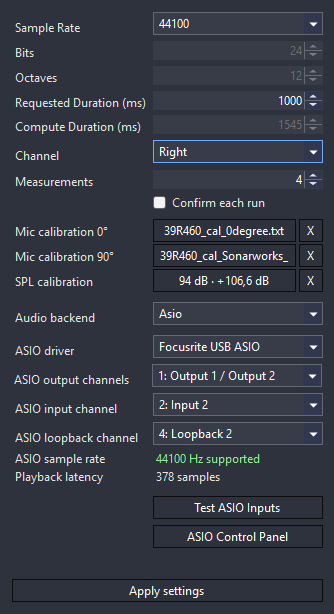
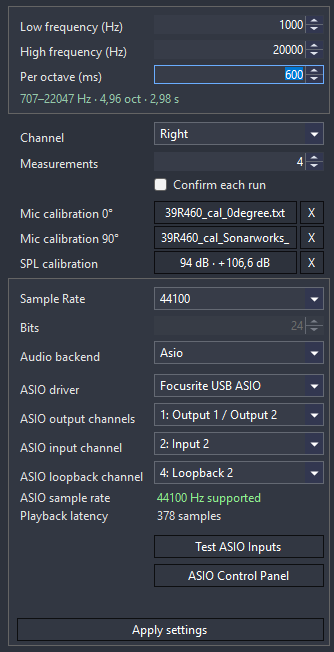
README: catch up with the band sweep, the EQ Wizard's sources, and the fold
Three shipped features were undocumented and two statements had gone false: the
file section still listed a sweep octave count, and the EQ Wizard was still
described as something that loads an impulse response.

Adds a sweep band/pace section (including why the band gate removed the spikes
below a band-limited sweep's low edge), an EQ Wizard source section built around
the moving-microphone RTA case, the curve-metadata header and its purpose, and
the foldable Virtual DSP block.

The EQ Wizard's source button said "Load IR…" while its menu offered overlay and
text curves; it now says "Source…", and the field name follows.

Changed region(s): [[0.0, 0.0, 0.988, 0.9902], [0.0299, 0.0309, 0.4491, 0.4642]]

diff --git a/source/Tools/Eq/EqWizardPanel.Designer.cs b/source/Tools/Eq/EqWizardPanel.Designer.cs
@@ -1,4 +1,4 @@
-namespace Resonalyze
+namespace Resonalyze
 {
     partial class EqWizardPanel
     {
@@ -36,7 +36,7 @@ namespace Resonalyze
             plotWizard = new OxyPlot.WindowsForms.PlotView();
             panelPEQ = new Panel();
             labelBands = new Label();
-            buttonLoadIr = new Button();
+            buttonSource = new Button();
             darkComboBoxBands = new DarkComboBox();
             NumericTargetOffset = new DarkNumericUpDown();
             labelTargetOffset = new Label();
@@ -109,16 +109,16 @@ namespace Resonalyze
             labelBands.TabIndex = 4;
             labelBands.Text = "EQ Filters";
             // 
-            // buttonLoadIr
+            // buttonSource
             // 
-            buttonLoadIr.FlatStyle = FlatStyle.Popup;
-            buttonLoadIr.ForeColor = Color.White;
-            buttonLoadIr.Location = new Point(6, 12);
-            buttonLoadIr.Name = "buttonLoadIr";
-            buttonLoadIr.Size = new Size(182, 24);
-            buttonLoadIr.TabIndex = 5;
-            buttonLoadIr.Text = "Load IR…";
-            buttonLoadIr.UseVisualStyleBackColor = true;
+            buttonSource.FlatStyle = FlatStyle.Popup;
+            buttonSource.ForeColor = Color.White;
+            buttonSource.Location = new Point(6, 12);
+            buttonSource.Name = "buttonSource";
+            buttonSource.Size = new Size(182, 24);
+            buttonSource.TabIndex = 5;
+            buttonSource.Text = "Source…";
+            buttonSource.UseVisualStyleBackColor = true;
             // 
             // darkComboBoxBands
             // 
@@ -517,7 +517,7 @@ namespace Resonalyze
             Controls.Add(labelTargetOffset);
             Controls.Add(NumericTargetOffset);
             Controls.Add(darkComboBoxBands);
-            Controls.Add(buttonLoadIr);
+            Controls.Add(buttonSource);
             Controls.Add(labelBands);
             Controls.Add(panelPEQ);
             Controls.Add(plotWizard);
@@ -542,7 +542,7 @@ namespace Resonalyze
         private OxyPlot.WindowsForms.PlotView plotWizard;
         private Panel panelPEQ;
         private Label labelBands;
-        private Button buttonLoadIr;
+        private Button buttonSource;
         private DarkComboBox darkComboBoxBands;
         private DarkNumericUpDown NumericTargetOffset;
         private Label labelTargetOffset;

diff --git a/source/Tools/Eq/EqWizardPanel.cs b/source/Tools/Eq/EqWizardPanel.cs
@@ -1,4 +1,4 @@
-using System.ComponentModel;
+using System.ComponentModel;
 using OxyPlot;
 using OxyPlot.Annotations;
 using OxyPlot.Axes;
@@ -92,7 +92,7 @@ public partial class EqWizardPanel : UserControl
         // Showing a dropdown synchronously inside the mouse message is swallowed by the
         // focus change, and showing it on mouse-down lets the click's own mouse-up land
         // outside the just-opened menu and close it again.
-        buttonLoadIr.Click += (_, _) => buttonLoadIr.BeginInvoke(ShowSourceMenu);
+        buttonSource.Click += (_, _) => buttonSource.BeginInvoke(ShowSourceMenu);
         comboBoxCalibration.SelectedIndexChanged += (_, _) => OnCalibrationChanged();
         NumericTargetOffset.ValueChanged += (_, _) => OnTargetOffsetChanged();
         NumericGain.ValueChanged += (_, _) => DrawSelectedCurves();
@@ -232,7 +232,7 @@ public partial class EqWizardPanel : UserControl
 
     private void InitializeToolTips()
     {
-        SetTip(buttonLoadIr,
+        SetTip(buttonSource,
             "Choose the curve to equalize: an impulse response (file or history), " +
             "a captured overlay slot, or a measured curve from a text file.");
         SetTip(buttonOverlaySettings,

diff --git a/source/Tools/Eq/EqWizardPanel.Source.cs b/source/Tools/Eq/EqWizardPanel.Source.cs
@@ -1,4 +1,4 @@
-using OxyPlot;
+using OxyPlot;
 using Resonalyze.Dsp;
 using Resonalyze.History;
 using Resonalyze.Options;
@@ -98,7 +98,7 @@ public partial class EqWizardPanel
         sourceMenu?.Dispose();
         sourceMenu = BuildSourceMenu();
         DropDownFocusGuard.Attach(sourceMenu);
-        sourceMenu.Show(buttonLoadIr, new Point(0, buttonLoadIr.Height));
+        sourceMenu.Show(buttonSource, new Point(0, buttonSource.Height));
     }
 
     private ContextMenuStrip BuildSourceMenu()
@@ -333,9 +333,9 @@ public partial class EqWizardPanel
             suppressRedraw = false;
         }
 
-        buttonLoadIr.Text = source.DisplayName;
+        buttonSource.Text = source.DisplayName;
         toolTip.SetToolTip(
-            buttonLoadIr,
+            buttonSource,
             $"{source.Description}\r\nClick to load another source.");
 
         RaiseSettingsChanged();

diff --git a/README.md b/README.md
@@ -86,10 +86,11 @@ result with fewer blind tuning passes.
   <tr>
     <td width="50%">
       <img src="assets/images/eq_wizard.png" alt="EQ Wizard parametric EQ tuning">
-      <p><strong>EQ Wizard</strong> loads an impulse response and designs an
-      up-to-32-band PEQ toward its own target curve, with microphone calibration,
-      Auto Tune, a vertical fader bank, import/export, and printable tuning
-      sheets.</p>
+      <p><strong>EQ Wizard</strong> equalizes any measured response — an impulse
+      response, a captured overlay curve, or a moving-microphone RTA in dB SPL —
+      designing an up-to-32-band PEQ toward its own target curve, with microphone
+      calibration, Auto Tune, a vertical fader bank, import/export, and printable
+      tuning sheets.</p>
     </td>
     <td width="50%">
       <img src="assets/images/time-alignment.png" alt="Time Alignment delay measurement">
@@ -233,6 +234,11 @@ file is provided with every release.
 ## Highlights
 
 - Exponential sine sweep measurement with impulse-response JSON save/load
+- **Band-defined sweep**: set the low and high frequency the sweep must cover
+  (20 Hz – 20 kHz) and a per-octave pace instead of an octave count pinned to
+  Nyquist. The panel reports the range it can actually deliver, and the transfer
+  estimate is gated to the excited band, so a band-limited sweep no longer shows
+  noise spikes just below its low edge
 - Mandatory loopback-referenced sweep processing: every measurement captures a
   loopback reference, and all analysis is derived from the resulting transfer
   function (harmonics and THD+N stay on the sweep deconvolution)
@@ -290,10 +296,13 @@ file is provided with every release.
   or live plot curves, targets, import/export, and saved per-mode state
 - Live overlay preview: captured, calculated, and target overlay dialogs redraw
   the candidate curve on the plot as you edit, and revert on Cancel
-- EQ Wizard: load an impulse response and design an up-to-32-band parametric EQ
-  toward its own target curve (with selectable microphone calibration), using a
-  vertical fader bank, Auto Tune, a live results read-out, cross-tool PEQ
-  import/export, and a printable tuning-sheet PDF
+- EQ Wizard: equalize any measured frequency response — an impulse response from
+  a file or History, a captured overlay slot, or a curve imported from text —
+  toward its own target curve, designing an up-to-32-band parametric EQ (with
+  selectable microphone calibration), using a vertical fader bank, Auto Tune, a
+  live results read-out, cross-tool PEQ import/export, and a printable
+  tuning-sheet PDF. The car case it was built for is a **moving-microphone RTA in
+  dB SPL**: no coherence, no impulse response, an absolute datum
 - Signal Generator: play pink (periodic and continuous), brown/red, white noise,
   or a sine tone through the configured playback device for level setting and
   channel checks
@@ -566,7 +575,8 @@ real-time analysis without capturing an IR, use the additional
    directly or through a microphone and a suitable interface.
 2. Start Resonalyze and open the measurement settings.
 3. Select the audio backend, sample rate, devices or backend-specific input and
-   loopback channels, sweep duration, playback channel, and analysis
+   loopback channels, the [sweep band and pace](#sweep-band-and-duration),
+   playback channel, and analysis
    parameters. A **loopback reference channel is required** — all analysis is
    derived from the transfer IR it produces, so the settings panel flags an
    unset loopback and the measurement will not start without one. To average
@@ -751,6 +761,38 @@ channel is selected for the active backend; the settings panel flags an unset
 loopback in place. Records loaded from older files that were captured without a
 transfer IR still open, but their transfer-IR views show a "requires loopback
 transfer IR" note instead of a misleading curve.
+
+### Sweep band and duration
+
+The exponential sweep is described by the band it must cover: a **Low frequency
+(Hz)** and a **High frequency (Hz)** anywhere between 20 Hz and 20 kHz, plus a
+**Per octave (ms)** pace that sets the duration. Measuring a tweeter through a
+2 kHz crossover no longer means sweeping from 20 Hz and pinning the top to
+Nyquist — sweep the band the driver actually plays, and spend the whole
+excitation there.
+
+Phase alignment is preserved by rounding the band outward to whole start and end
+cycles, so the achieved range always encloses the one you asked for, and the
+fade-in and fade-out live in the guard bands outside it rather than eating into
+the band under test. The **Actual range** line reports what the current settings
+really deliver: where a short sweep cannot honour the request — one cycle at
+20 Hz alone takes 50 ms — it says so instead of quietly shortening the sweep at
+run time. The duration is capped by one length limit that the preview, the
+generator and the stored settings all resolve through, so the panel cannot
+promise a sweep the measurement then fails to play.
+
+The transfer estimate is gated to the excited band: full weight between the
+points where the sweep envelope is actually open, raised-cosine ramps across the
+fades, zero outside. Outside the swept band the transfer function is microphone
+noise divided by the reference's leakage skirt, which used to surface as +15 dB
+spikes just below the start of a band-limited sweep; those bins are now excluded
+rather than half-passed.
+
+Measurement options apply as you edit them — the band, the pace, the playback
+channel, the averaging — and touch the audio session only when its identity
+actually changed. The audio backend, the format the device is opened with and
+its device panel are the exception: they sit in their own bordered panel and
+commit together with **Apply settings**.
 
 ### Wave
 
@@ -942,7 +984,10 @@ transfer function. Coherence does not apply to it, so it is never dimmed by the
 gain, so switching windows does not shift it. In relative dB it is a single-channel
 level whose vertical position floats with input gain; with the **Scale** set to
 **dB SPL** it becomes calibrated absolute sound pressure (and the only curve —
-see [Sound Pressure Level](#sound-pressure-level-db-spl)).
+see [Sound Pressure Level](#sound-pressure-level-db-spl)). Captured into an
+overlay slot, an RTA trace — typically a microphone moved slowly around the
+listening area — can be equalized directly in the
+[EQ Wizard](#choosing-what-to-equalize).
 
 **Peak Hold** overlays a second curve that retains the maximum level seen on the
 trace until it is reset. **Coherence** (on by default) toggles the γ² curve
@@ -1242,7 +1287,9 @@ Files are saved as indented, human-readable JSON. Each file contains:
 - format and schema version
 - save time in UTC
 - sample rate and bit depth
-- sweep octave count and duration
+- the requested sweep band and the band the sweep achieved, plus its duration
+  and sample count (files written before the band settings carry an octave count
+  instead and are migrated on load)
 - playback channel
 - measurement mode (`SweepDeconvolution` or `LoopbackTransfer`)
 - sweep-deconvolution impulse-response samples and peak index
@@ -1350,6 +1397,14 @@ skipped. **Export to text** writes the slot's current curve in the same format.
 For a Target slot, **Export deviation** writes the deviation or EQ-correction
 curve, which is handy for transferring corrections into an equalizer or another
 tool.
+
+Exported files open with a commented `# resonalyze-curve` metadata header that
+records what the curve is — the analysis it came from, its role (a measured
+response, a deviation, a target), and the sample rate where one applies. Foreign
+files without the header still import exactly as before; the header only lets
+Resonalyze recognize its own curves on the way back in, so that, for example, the
+[EQ Wizard](#eq-wizard) can tell a measured response from an EQ-correction curve
+that must never be equalized as if it were one.
 
 Captured overlay settings include:
 
@@ -1460,10 +1515,36 @@ The **EQ Wizard** (under the **Tools** tab) designs a parametric equalizer — u
 to 32 peaking (PK) bands plus a preamp — that moves a measured response toward a
 target. It builds directly on Target overlays: you can open it from **Tools > EQ
 Wizard** and pick a target, or jump straight in with the **To EQ Wizard** button
-in a Target overlay's settings. Because the wizard needs a real curve to tune
-against, its target must use a captured source (not the live current measurement).
+in a Target overlay's settings.
 
 ![EQ Wizard mode](assets/images/eq_wizard.png)
+
+### Choosing what to equalize
+
+The **Source…** button picks the curve to tune, and it does not have to be an
+impulse response:
+
+- **Impulse response from file…** or **from history** — the loopback-referenced
+  measurement, the same source the analysis views use
+- **Curve from overlay slot** — any captured frequency-response slot, imported
+  as a snapshot with no live link back to the slot
+- **Curve from text file…** — a response exported from Resonalyze or produced
+  elsewhere
+
+The case this was built for is a **moving-microphone RTA in dB SPL**: park the
+Live Spectrum RTA on a car's listening area, capture it into an overlay slot,
+and equalize that. Such a curve has no impulse response and no coherence behind
+it, and its datum is absolute rather than relative — so the wizard treats the RTA
+as a first-class analysis curve rather than something to be reconstructed from an
+IR. Only measured responses can enter: a harmonic, THD, phase, deviation,
+EQ-correction, target or calculated curve is refused, including through a text
+round trip.
+
+Imported curves carry their own **Calibration** choice, independent of the
+microphone-calibration preference used for impulse responses, because a curve
+captured through a calibrated RTA must not be calibrated a second time. The
+filter response is drawn against its own right-hand dB axis, scaled to the summed
+filter curve.
 
 The plot shows, on shared frequency/dB axes:
 
@@ -1570,7 +1651,11 @@ across sides for the channels you tick in a small dialog, and a **Mono**
 checkbox turns a pair into a single shared driver — the typical one-subwoofer
 car layout — that feeds both sides' sums. **Add channel** / **Remove channel**
 grow the setup from two up to eight pairs; the blocks live in a scrolling list,
-so a many-way system stays in one window without crowding the plots. Every
+so a many-way system stays in one window without crowding the plots. The **+/−**
+button in a block folds it down to its header — source, gain, delay, polarity
+stay visible and the filter chain is hidden — so an eight-way setup can show
+only the chain being tuned; folded blocks are remembered with the session and
+nothing about the channel changes while it is folded. Every
 channel in a project must share one sample rate — a measurement recorded at a
 different rate is refused; clear the existing sources first to switch the whole
 project to a new rate.
